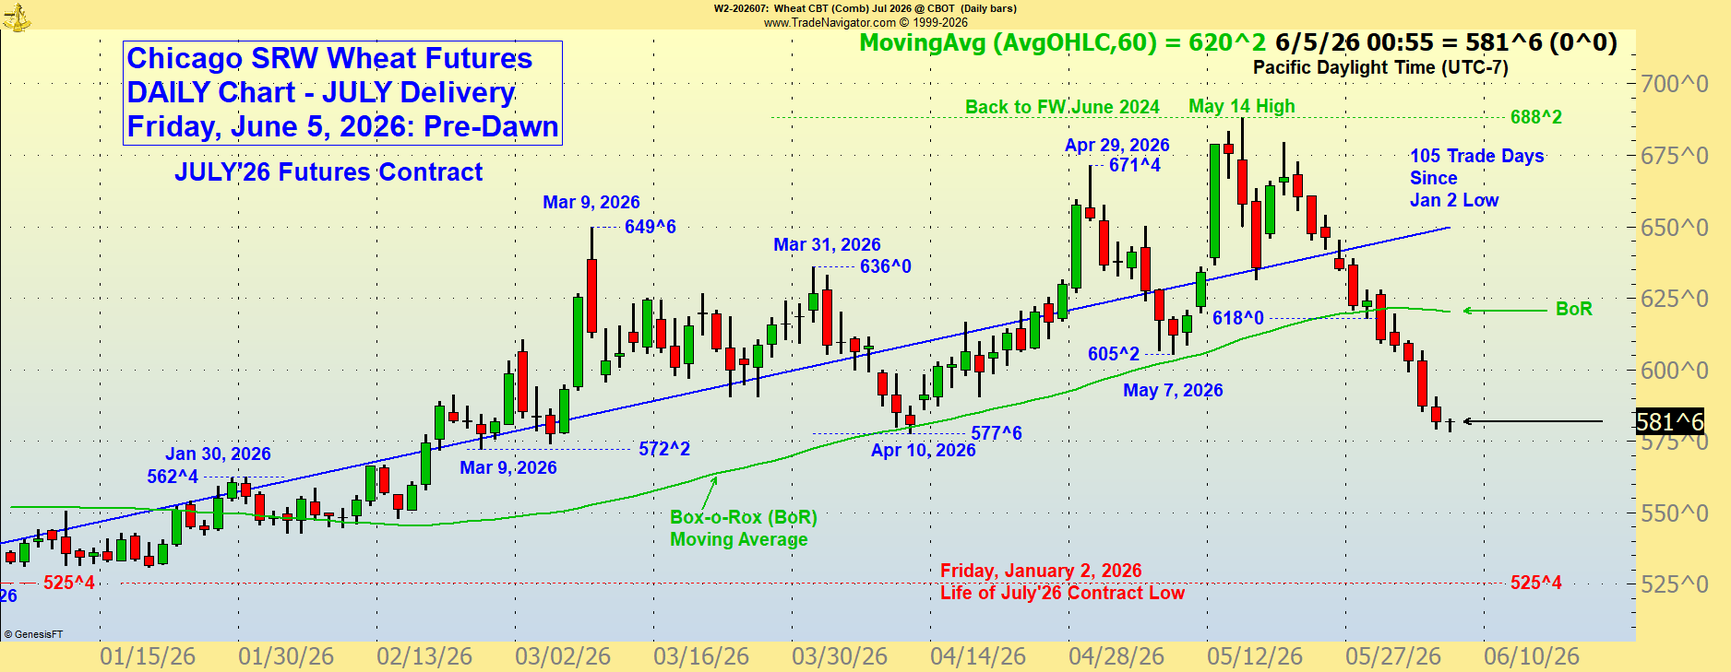
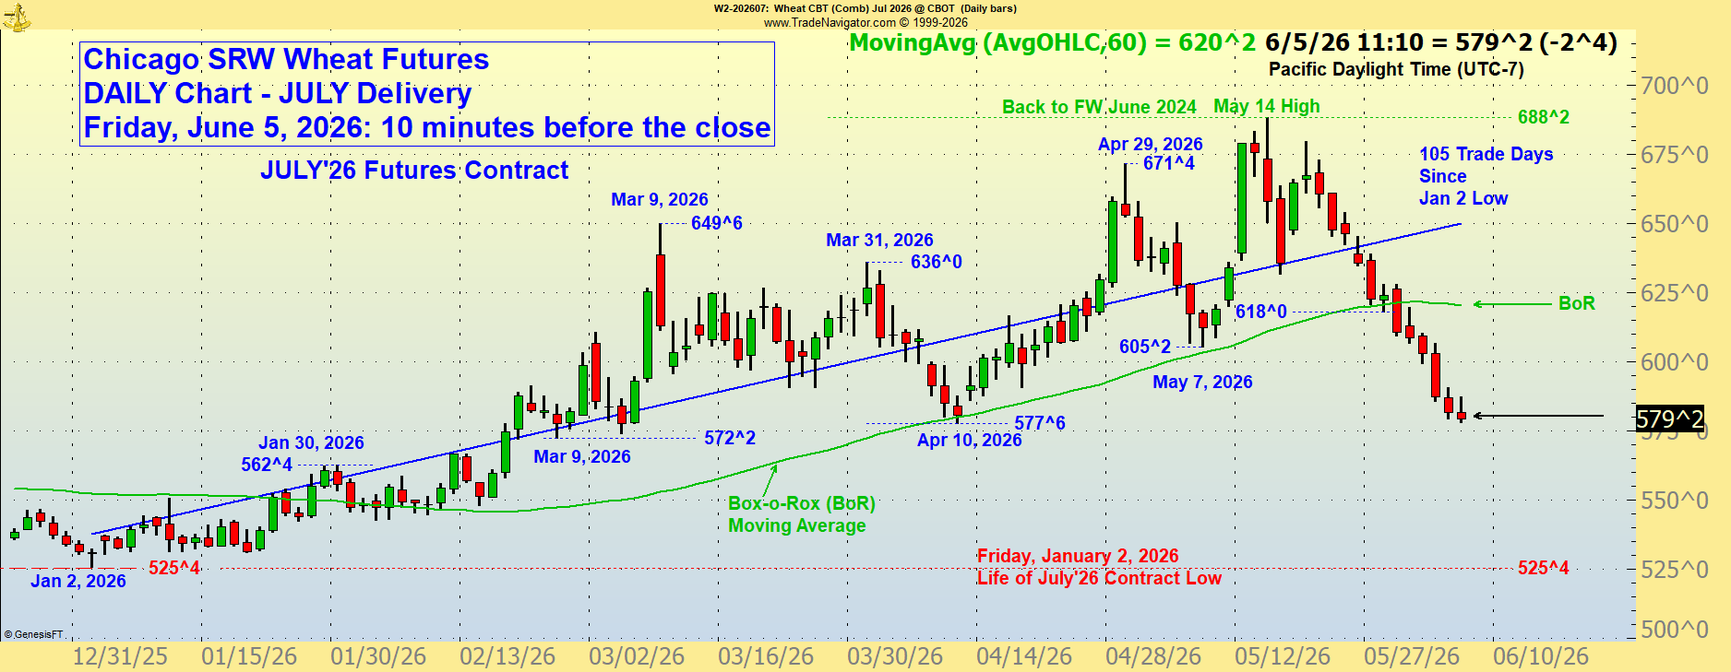
chartupdate

diff --git a/devlogs/reports/report-2026-06-05.html b/devlogs/reports/report-2026-06-05.html
@@ -1,0 +1,163 @@
+<!DOCTYPE html>
+<html lang="en">
+<head>
+<meta charset="UTF-8">
+<meta name="viewport" content="width=device-width, initial-scale=1.0">
+<title>MarketBullets Daily Report 2026-06-05</title>
+<style>
+  :root {
+    --gold:  #D4A051;
+    --amber: #D4A574;
+    --blue:  #B8C5D6;
+    --bg:    #1a1a1a;
+    --line:  #2e2e2e;
+    --text:  #F5F5F0;
+    --dim:   #888;
+  }
+  * { box-sizing: border-box; margin: 0; padding: 0; }
+  body { font-family: Georgia, 'Times New Roman', serif; background: var(--bg);
+         color: var(--text); padding: 2rem 2.5rem; line-height: 1.6; }
+  header { border-bottom: 2px solid var(--gold); padding-bottom: 1rem; margin-bottom: 2rem; }
+  header h1 { color: var(--gold); font-size: 1.4rem; letter-spacing: 0.04em; }
+  header .meta { color: var(--blue); font-size: 0.85rem; margin-top: 0.25rem; }
+  h2 { color: var(--gold); font-size: 0.85rem; letter-spacing: 0.08em;
+       text-transform: uppercase; border-left: 3px solid var(--gold);
+       padding-left: 0.65rem; margin: 2rem 0 0.75rem; }
+  table { width: 100%; border-collapse: collapse; font-size: 0.875rem; }
+  th { text-align: left; color: var(--blue); padding: 0.4rem 0.6rem;
+       border-bottom: 1px solid var(--gold); font-family: 'Trebuchet MS', sans-serif;
+       font-size: 0.72rem; text-transform: uppercase; letter-spacing: 0.06em; }
+  td { padding: 0.35rem 0.6rem; border-bottom: 1px solid var(--line); vertical-align: middle; }
+  tr:hover td { background: #252525; }
+  a { color: var(--amber); text-decoration: none; }
+  a:hover { color: var(--gold); text-decoration: underline; }
+  .ts   { color: var(--dim); font-size: 0.8rem; font-family: monospace; white-space: nowrap; }
+  .ext  { color: var(--blue); font-size: 0.8rem; font-family: monospace; }
+  .empty { color: var(--dim); font-style: italic; padding: 0.6rem 0; }
+  footer { margin-top: 3rem; color: var(--dim); font-size: 0.75rem;
+           border-top: 1px solid var(--line); padding-top: 0.75rem;
+           font-family: 'Trebuchet MS', sans-serif; }
+</style>
+</head>
+<body>
+<header>
+  <h1>MarketBullets &mdash; Daily Activity Report</h1>
+  <div class="meta">2026-06-05 &nbsp;&bull;&nbsp; Generated 05:00</div>
+</header>
+<h2>Files Modified &mdash; Last 24 Hours</h2>
+<table>
+  <tr><th>Path</th><th>Type</th><th>Time</th><th>Size</th></tr>
+  <tr><td><a href='file:///C:/Users/hofer/OneDrive/Documents/GitHub/WEBSITECHARTS/tools/auto_commit.log'>tools/auto_commit.log</a></td><td class='ext'>.log</td><td class='ts'>01:12</td><td class='ts'>55.3 KB</td></tr>
+  <tr><td><a href='file:///C:/Users/hofer/OneDrive/Documents/GitHub/WEBSITECHARTS/tools/delay_updater.log'>tools/delay_updater.log</a></td><td class='ext'>.log</td><td class='ts'>01:12</td><td class='ts'>33.7 KB</td></tr>
+  <tr><td><a href='file:///C:/Users/hofer/OneDrive/Documents/GitHub/WEBSITECHARTS/charts/WHEAT_HRS_M.png'>charts/WHEAT_HRS_M.png</a></td><td class='ext'>.png</td><td class='ts'>01:12</td><td class='ts'>64.7 KB</td></tr>
+  <tr><td><a href='file:///C:/Users/hofer/OneDrive/Documents/GitHub/WEBSITECHARTS/charts/WHEAT_HRS_D.png'>charts/WHEAT_HRS_D.png</a></td><td class='ext'>.png</td><td class='ts'>01:11</td><td class='ts'>84.4 KB</td></tr>
+  <tr><td><a href='file:///C:/Users/hofer/OneDrive/Documents/GitHub/WEBSITECHARTS/charts/WHEAT_FWH_W.png'>charts/WHEAT_FWH_W.png</a></td><td class='ext'>.png</td><td class='ts'>01:09</td><td class='ts'>146.1 KB</td></tr>
+  <tr><td><a href='file:///C:/Users/hofer/OneDrive/Documents/GitHub/WEBSITECHARTS/charts/WHEAT_FWH_M.png'>charts/WHEAT_FWH_M.png</a></td><td class='ext'>.png</td><td class='ts'>01:08</td><td class='ts'>96.3 KB</td></tr>
+  <tr><td><a href='file:///C:/Users/hofer/OneDrive/Documents/GitHub/WEBSITECHARTS/charts/WHEAT_FWH_D.png'>charts/WHEAT_FWH_D.png</a></td><td class='ext'>.png</td><td class='ts'>01:07</td><td class='ts'>132.2 KB</td></tr>
+  <tr><td><a href='file:///C:/Users/hofer/OneDrive/Documents/GitHub/WEBSITECHARTS/charts/WHEAT_HRS_W.png'>charts/WHEAT_HRS_W.png</a></td><td class='ext'>.png</td><td class='ts'>01:06</td><td class='ts'>109.3 KB</td></tr>
+  <tr><td><a href='file:///C:/Users/hofer/OneDrive/Documents/GitHub/WEBSITECHARTS/charts/WHEAT_SRW_D.png'>charts/WHEAT_SRW_D.png</a></td><td class='ext'>.png</td><td class='ts'>01:06</td><td class='ts'>103.4 KB</td></tr>
+  <tr><td><a href='file:///C:/Users/hofer/OneDrive/Documents/GitHub/WEBSITECHARTS/charts/WHEAT_SRW_BOR_D.png'>charts/WHEAT_SRW_BOR_D.png</a></td><td class='ext'>.png</td><td class='ts'>01:04</td><td class='ts'>142.4 KB</td></tr>
+  <tr><td><a href='file:///C:/Users/hofer/OneDrive/Documents/GitHub/WEBSITECHARTS/charts/WHEAT_SRW_A.png'>charts/WHEAT_SRW_A.png</a></td><td class='ext'>.png</td><td class='ts'>01:04</td><td class='ts'>116.6 KB</td></tr>
+  <tr><td><a href='file:///C:/Users/hofer/OneDrive/Documents/GitHub/WEBSITECHARTS/charts/WHEAT_SRW_W.png'>charts/WHEAT_SRW_W.png</a></td><td class='ext'>.png</td><td class='ts'>01:03</td><td class='ts'>122 KB</td></tr>
+  <tr><td><a href='file:///C:/Users/hofer/OneDrive/Documents/GitHub/WEBSITECHARTS/charts/WHEAT_SRW_M.png'>charts/WHEAT_SRW_M.png</a></td><td class='ext'>.png</td><td class='ts'>01:02</td><td class='ts'>89.3 KB</td></tr>
+  <tr><td><a href='file:///C:/Users/hofer/OneDrive/Documents/GitHub/WEBSITECHARTS/charts/WHEAT_SRW_Special_M.png'>charts/WHEAT_SRW_Special_M.png</a></td><td class='ext'>.png</td><td class='ts'>00:56</td><td class='ts'>79.7 KB</td></tr>
+  <tr><td><a href='file:///C:/Users/hofer/OneDrive/Documents/GitHub/WEBSITECHARTS/charts/WHEAT_HRW_W.png'>charts/WHEAT_HRW_W.png</a></td><td class='ext'>.png</td><td class='ts'>00:56</td><td class='ts'>112.5 KB</td></tr>
+  <tr><td><a href='file:///C:/Users/hofer/OneDrive/Documents/GitHub/WEBSITECHARTS/charts/WHEAT_HRW_M.png'>charts/WHEAT_HRW_M.png</a></td><td class='ext'>.png</td><td class='ts'>00:55</td><td class='ts'>85.3 KB</td></tr>
+  <tr><td><a href='file:///C:/Users/hofer/OneDrive/Documents/GitHub/WEBSITECHARTS/charts/WHEAT_HRW_D.png'>charts/WHEAT_HRW_D.png</a></td><td class='ext'>.png</td><td class='ts'>00:55</td><td class='ts'>89 KB</td></tr>
+  <tr><td><a href='file:///C:/Users/hofer/OneDrive/Documents/GitHub/WEBSITECHARTS/charts/10daydelay/.last_updated'>charts/10daydelay/.last_updated</a></td><td class='ext'>.last_updated</td><td class='ts'>00:54</td><td class='ts'>10 B</td></tr>
+  <tr><td><a href='file:///C:/Users/hofer/OneDrive/Documents/GitHub/WEBSITECHARTS/charts/10daydelay/WHEAT_SRW_WOLD.png'>charts/10daydelay/WHEAT_SRW_WOLD.png</a></td><td class='ext'>.png</td><td class='ts'>00:54</td><td class='ts'>119.6 KB</td></tr>
+  <tr><td><a href='file:///C:/Users/hofer/OneDrive/Documents/GitHub/WEBSITECHARTS/charts/10daydelay/WHEAT_SRW_Special_MOLD.png'>charts/10daydelay/WHEAT_SRW_Special_MOLD.png</a></td><td class='ext'>.png</td><td class='ts'>00:54</td><td class='ts'>78.9 KB</td></tr>
+  <tr><td><a href='file:///C:/Users/hofer/OneDrive/Documents/GitHub/WEBSITECHARTS/charts/10daydelay/WHEAT_SRW_MOLD.png'>charts/10daydelay/WHEAT_SRW_MOLD.png</a></td><td class='ext'>.png</td><td class='ts'>00:54</td><td class='ts'>86.1 KB</td></tr>
+  <tr><td><a href='file:///C:/Users/hofer/OneDrive/Documents/GitHub/WEBSITECHARTS/charts/10daydelay/WHEAT_SRW_DOLD.png'>charts/10daydelay/WHEAT_SRW_DOLD.png</a></td><td class='ext'>.png</td><td class='ts'>00:54</td><td class='ts'>99 KB</td></tr>
+  <tr><td><a href='file:///C:/Users/hofer/OneDrive/Documents/GitHub/WEBSITECHARTS/charts/10daydelay/WHEAT_SRW_BOR_DOLD.png'>charts/10daydelay/WHEAT_SRW_BOR_DOLD.png</a></td><td class='ext'>.png</td><td class='ts'>00:54</td><td class='ts'>138.5 KB</td></tr>
+  <tr><td><a href='file:///C:/Users/hofer/OneDrive/Documents/GitHub/WEBSITECHARTS/charts/10daydelay/WHEAT_SRW_AOLD.png'>charts/10daydelay/WHEAT_SRW_AOLD.png</a></td><td class='ext'>.png</td><td class='ts'>00:54</td><td class='ts'>115.1 KB</td></tr>
+  <tr><td><a href='file:///C:/Users/hofer/OneDrive/Documents/GitHub/WEBSITECHARTS/charts/10daydelay/WHEAT_SRW_30MinOLD.png'>charts/10daydelay/WHEAT_SRW_30MinOLD.png</a></td><td class='ext'>.png</td><td class='ts'>00:54</td><td class='ts'>87.6 KB</td></tr>
+  <tr><td><a href='file:///C:/Users/hofer/OneDrive/Documents/GitHub/WEBSITECHARTS/charts/10daydelay/WHEAT_HRW_WOLD.png'>charts/10daydelay/WHEAT_HRW_WOLD.png</a></td><td class='ext'>.png</td><td class='ts'>00:54</td><td class='ts'>113.1 KB</td></tr>
+  <tr><td><a href='file:///C:/Users/hofer/OneDrive/Documents/GitHub/WEBSITECHARTS/charts/10daydelay/WHEAT_HRW_MOLD.png'>charts/10daydelay/WHEAT_HRW_MOLD.png</a></td><td class='ext'>.png</td><td class='ts'>00:54</td><td class='ts'>85.5 KB</td></tr>
+  <tr><td><a href='file:///C:/Users/hofer/OneDrive/Documents/GitHub/WEBSITECHARTS/charts/10daydelay/WHEAT_HRW_DOLD.png'>charts/10daydelay/WHEAT_HRW_DOLD.png</a></td><td class='ext'>.png</td><td class='ts'>00:54</td><td class='ts'>87.7 KB</td></tr>
+  <tr><td><a href='file:///C:/Users/hofer/OneDrive/Documents/GitHub/WEBSITECHARTS/charts/10daydelay/WHEAT_HRS_WOLD.png'>charts/10daydelay/WHEAT_HRS_WOLD.png</a></td><td class='ext'>.png</td><td class='ts'>00:54</td><td class='ts'>111.9 KB</td></tr>
+  <tr><td><a href='file:///C:/Users/hofer/OneDrive/Documents/GitHub/WEBSITECHARTS/charts/10daydelay/WHEAT_HRS_MOLD.png'>charts/10daydelay/WHEAT_HRS_MOLD.png</a></td><td class='ext'>.png</td><td class='ts'>00:54</td><td class='ts'>69.3 KB</td></tr>
+  <tr><td><a href='file:///C:/Users/hofer/OneDrive/Documents/GitHub/WEBSITECHARTS/charts/10daydelay/WHEAT_HRS_DOLD.png'>charts/10daydelay/WHEAT_HRS_DOLD.png</a></td><td class='ext'>.png</td><td class='ts'>00:54</td><td class='ts'>87.1 KB</td></tr>
+  <tr><td><a href='file:///C:/Users/hofer/OneDrive/Documents/GitHub/WEBSITECHARTS/charts/10daydelay/WHEAT_FWH_WOLD.png'>charts/10daydelay/WHEAT_FWH_WOLD.png</a></td><td class='ext'>.png</td><td class='ts'>00:54</td><td class='ts'>148.2 KB</td></tr>
+  <tr><td><a href='file:///C:/Users/hofer/OneDrive/Documents/GitHub/WEBSITECHARTS/charts/10daydelay/WHEAT_FWH_MOLD.png'>charts/10daydelay/WHEAT_FWH_MOLD.png</a></td><td class='ext'>.png</td><td class='ts'>00:54</td><td class='ts'>97.7 KB</td></tr>
+  <tr><td><a href='file:///C:/Users/hofer/OneDrive/Documents/GitHub/WEBSITECHARTS/charts/10daydelay/WHEAT_FWH_DOLD.png'>charts/10daydelay/WHEAT_FWH_DOLD.png</a></td><td class='ext'>.png</td><td class='ts'>00:54</td><td class='ts'>130.6 KB</td></tr>
+  <tr><td><a href='file:///C:/Users/hofer/OneDrive/Documents/GitHub/WEBSITECHARTS/charts/10daydelay/SPDINTER_SRW_HRW_MOLD.png'>charts/10daydelay/SPDINTER_SRW_HRW_MOLD.png</a></td><td class='ext'>.png</td><td class='ts'>00:54</td><td class='ts'>74.9 KB</td></tr>
+  <tr><td><a href='file:///C:/Users/hofer/OneDrive/Documents/GitHub/WEBSITECHARTS/charts/10daydelay/SPDINTER_SRW_HRS_MOLD.png'>charts/10daydelay/SPDINTER_SRW_HRS_MOLD.png</a></td><td class='ext'>.png</td><td class='ts'>00:54</td><td class='ts'>82.7 KB</td></tr>
+  <tr><td><a href='file:///C:/Users/hofer/OneDrive/Documents/GitHub/WEBSITECHARTS/charts/10daydelay/SPDINTER_HRW_FWH_WOLD.png'>charts/10daydelay/SPDINTER_HRW_FWH_WOLD.png</a></td><td class='ext'>.png</td><td class='ts'>00:54</td><td class='ts'>95.5 KB</td></tr>
+  <tr><td><a href='file:///C:/Users/hofer/OneDrive/Documents/GitHub/WEBSITECHARTS/charts/10daydelay/SPDINTER_HRW_FWH_MOLD.png'>charts/10daydelay/SPDINTER_HRW_FWH_MOLD.png</a></td><td class='ext'>.png</td><td class='ts'>00:54</td><td class='ts'>102.5 KB</td></tr>
+  <tr><td><a href='file:///C:/Users/hofer/OneDrive/Documents/GitHub/WEBSITECHARTS/charts/10daydelay/SPDINTER_HRS_HRW_MOLD.png'>charts/10daydelay/SPDINTER_HRS_HRW_MOLD.png</a></td><td class='ext'>.png</td><td class='ts'>00:54</td><td class='ts'>76.9 KB</td></tr>
+  <tr><td><a href='file:///C:/Users/hofer/OneDrive/Documents/GitHub/WEBSITECHARTS/charts/10daydelay/SPD_SRW_Z_H2OLD.png'>charts/10daydelay/SPD_SRW_Z_H2OLD.png</a></td><td class='ext'>.png</td><td class='ts'>00:54</td><td class='ts'>65.5 KB</td></tr>
+  <tr><td><a href='file:///C:/Users/hofer/OneDrive/Documents/GitHub/WEBSITECHARTS/charts/10daydelay/SPD_SRW_U_ZOLD.png'>charts/10daydelay/SPD_SRW_U_ZOLD.png</a></td><td class='ext'>.png</td><td class='ts'>00:54</td><td class='ts'>63 KB</td></tr>
+  <tr><td><a href='file:///C:/Users/hofer/OneDrive/Documents/GitHub/WEBSITECHARTS/charts/10daydelay/SPD_SRW_N_UOLD.png'>charts/10daydelay/SPD_SRW_N_UOLD.png</a></td><td class='ext'>.png</td><td class='ts'>00:54</td><td class='ts'>74.5 KB</td></tr>
+  <tr><td><a href='file:///C:/Users/hofer/OneDrive/Documents/GitHub/WEBSITECHARTS/charts/10daydelay/SPD_SRW_K_NOLD.png'>charts/10daydelay/SPD_SRW_K_NOLD.png</a></td><td class='ext'>.png</td><td class='ts'>00:54</td><td class='ts'>75.1 KB</td></tr>
+  <tr><td><a href='file:///C:/Users/hofer/OneDrive/Documents/GitHub/WEBSITECHARTS/charts/10daydelay/SPD_SRW_H_KOLD.png'>charts/10daydelay/SPD_SRW_H_KOLD.png</a></td><td class='ext'>.png</td><td class='ts'>00:54</td><td class='ts'>61.6 KB</td></tr>
+  <tr><td><a href='file:///C:/Users/hofer/OneDrive/Documents/GitHub/WEBSITECHARTS/charts/10daydelay/SPD_HRW_Z_H2OLD.png'>charts/10daydelay/SPD_HRW_Z_H2OLD.png</a></td><td class='ext'>.png</td><td class='ts'>00:54</td><td class='ts'>71.1 KB</td></tr>
+  <tr><td><a href='file:///C:/Users/hofer/OneDrive/Documents/GitHub/WEBSITECHARTS/charts/10daydelay/SPD_HRW_U_ZOLD.png'>charts/10daydelay/SPD_HRW_U_ZOLD.png</a></td><td class='ext'>.png</td><td class='ts'>00:54</td><td class='ts'>61.3 KB</td></tr>
+  <tr><td><a href='file:///C:/Users/hofer/OneDrive/Documents/GitHub/WEBSITECHARTS/charts/10daydelay/SPD_HRW_N_UOLD.png'>charts/10daydelay/SPD_HRW_N_UOLD.png</a></td><td class='ext'>.png</td><td class='ts'>00:54</td><td class='ts'>68 KB</td></tr>
+  <tr><td><a href='file:///C:/Users/hofer/OneDrive/Documents/GitHub/WEBSITECHARTS/charts/10daydelay/SPD_HRW_K_NOLD.png'>charts/10daydelay/SPD_HRW_K_NOLD.png</a></td><td class='ext'>.png</td><td class='ts'>00:54</td><td class='ts'>76.3 KB</td></tr>
+  <tr><td><a href='file:///C:/Users/hofer/OneDrive/Documents/GitHub/WEBSITECHARTS/charts/10daydelay/SPD_HRW_H_KOLD.png'>charts/10daydelay/SPD_HRW_H_KOLD.png</a></td><td class='ext'>.png</td><td class='ts'>00:54</td><td class='ts'>61.6 KB</td></tr>
+  <tr><td><a href='file:///C:/Users/hofer/OneDrive/Documents/GitHub/WEBSITECHARTS/charts/10daydelay/SPD_HRS_Z_H2OLD.png'>charts/10daydelay/SPD_HRS_Z_H2OLD.png</a></td><td class='ext'>.png</td><td class='ts'>00:54</td><td class='ts'>62.1 KB</td></tr>
+  <tr><td><a href='file:///C:/Users/hofer/OneDrive/Documents/GitHub/WEBSITECHARTS/charts/10daydelay/SPD_HRS_U_ZOLD.png'>charts/10daydelay/SPD_HRS_U_ZOLD.png</a></td><td class='ext'>.png</td><td class='ts'>00:54</td><td class='ts'>55.1 KB</td></tr>
+  <tr><td><a href='file:///C:/Users/hofer/OneDrive/Documents/GitHub/WEBSITECHARTS/charts/10daydelay/SPD_HRS_N_UOLD.png'>charts/10daydelay/SPD_HRS_N_UOLD.png</a></td><td class='ext'>.png</td><td class='ts'>00:54</td><td class='ts'>70.7 KB</td></tr>
+  <tr><td><a href='file:///C:/Users/hofer/OneDrive/Documents/GitHub/WEBSITECHARTS/charts/10daydelay/SPD_HRS_K_NOLD.png'>charts/10daydelay/SPD_HRS_K_NOLD.png</a></td><td class='ext'>.png</td><td class='ts'>00:54</td><td class='ts'>71.3 KB</td></tr>
+  <tr><td><a href='file:///C:/Users/hofer/OneDrive/Documents/GitHub/WEBSITECHARTS/charts/10daydelay/SPD_HRS_H_KOLD.png'>charts/10daydelay/SPD_HRS_H_KOLD.png</a></td><td class='ext'>.png</td><td class='ts'>00:54</td><td class='ts'>64.2 KB</td></tr>
+  <tr><td><a href='file:///C:/Users/hofer/OneDrive/Documents/GitHub/WEBSITECHARTS/charts/10daydelay/SPD_HRS_H2_K2OLD.png'>charts/10daydelay/SPD_HRS_H2_K2OLD.png</a></td><td class='ext'>.png</td><td class='ts'>00:54</td><td class='ts'>71.8 KB</td></tr>
+  <tr><td><a href='file:///C:/Users/hofer/OneDrive/Documents/GitHub/WEBSITECHARTS/charts/10daydelay/SPD_FWH_Z_H2OLD.png'>charts/10daydelay/SPD_FWH_Z_H2OLD.png</a></td><td class='ext'>.png</td><td class='ts'>00:54</td><td class='ts'>63.7 KB</td></tr>
+  <tr><td><a href='file:///C:/Users/hofer/OneDrive/Documents/GitHub/WEBSITECHARTS/charts/10daydelay/SPD_FWH_U_ZOLD.png'>charts/10daydelay/SPD_FWH_U_ZOLD.png</a></td><td class='ext'>.png</td><td class='ts'>00:54</td><td class='ts'>75.6 KB</td></tr>
+  <tr><td><a href='file:///C:/Users/hofer/OneDrive/Documents/GitHub/WEBSITECHARTS/charts/10daydelay/SPD_FWH_K_UOLD.png'>charts/10daydelay/SPD_FWH_K_UOLD.png</a></td><td class='ext'>.png</td><td class='ts'>00:54</td><td class='ts'>87 KB</td></tr>
+  <tr><td><a href='file:///C:/Users/hofer/OneDrive/Documents/GitHub/WEBSITECHARTS/charts/10daydelay/SPD_FWH_K2_U2OLD.png'>charts/10daydelay/SPD_FWH_K2_U2OLD.png</a></td><td class='ext'>.png</td><td class='ts'>00:54</td><td class='ts'>66.2 KB</td></tr>
+  <tr><td><a href='file:///C:/Users/hofer/OneDrive/Documents/GitHub/WEBSITECHARTS/charts/10daydelay/SPD_FWH_H_KOLD.png'>charts/10daydelay/SPD_FWH_H_KOLD.png</a></td><td class='ext'>.png</td><td class='ts'>00:54</td><td class='ts'>71.8 KB</td></tr>
+  <tr><td><a href='file:///C:/Users/hofer/OneDrive/Documents/GitHub/WEBSITECHARTS/charts/10daydelay/RATIO_SRW_C_MOLD.png'>charts/10daydelay/RATIO_SRW_C_MOLD.png</a></td><td class='ext'>.png</td><td class='ts'>00:54</td><td class='ts'>86 KB</td></tr>
+  <tr><td><a href='file:///C:/Users/hofer/OneDrive/Documents/GitHub/WEBSITECHARTS/charts/10daydelay/RATIO_S_C_WOLD.png'>charts/10daydelay/RATIO_S_C_WOLD.png</a></td><td class='ext'>.png</td><td class='ts'>00:54</td><td class='ts'>72.8 KB</td></tr>
+  <tr><td><a href='file:///C:/Users/hofer/OneDrive/Documents/GitHub/WEBSITECHARTS/charts/10daydelay/NRG_NG_MOLD.png'>charts/10daydelay/NRG_NG_MOLD.png</a></td><td class='ext'>.png</td><td class='ts'>00:54</td><td class='ts'>67.1 KB</td></tr>
+  <tr><td><a href='file:///C:/Users/hofer/OneDrive/Documents/GitHub/WEBSITECHARTS/charts/10daydelay/NRG_HO_DOLD.png'>charts/10daydelay/NRG_HO_DOLD.png</a></td><td class='ext'>.png</td><td class='ts'>00:54</td><td class='ts'>82.7 KB</td></tr>
+  <tr><td><a href='file:///C:/Users/hofer/OneDrive/Documents/GitHub/WEBSITECHARTS/charts/10daydelay/NRG_CL_WOLD.png'>charts/10daydelay/NRG_CL_WOLD.png</a></td><td class='ext'>.png</td><td class='ts'>00:54</td><td class='ts'>97.4 KB</td></tr>
+  <tr><td><a href='file:///C:/Users/hofer/OneDrive/Documents/GitHub/WEBSITECHARTS/charts/10daydelay/NRG_CL_MOLD.png'>charts/10daydelay/NRG_CL_MOLD.png</a></td><td class='ext'>.png</td><td class='ts'>00:54</td><td class='ts'>85.5 KB</td></tr>
+  <tr><td><a href='file:///C:/Users/hofer/OneDrive/Documents/GitHub/WEBSITECHARTS/charts/10daydelay/NRG_CL_DOLD.png'>charts/10daydelay/NRG_CL_DOLD.png</a></td><td class='ext'>.png</td><td class='ts'>00:54</td><td class='ts'>60.4 KB</td></tr>
+  <tr><td><a href='file:///C:/Users/hofer/OneDrive/Documents/GitHub/WEBSITECHARTS/charts/10daydelay/MISC_CC_MOLD.png'>charts/10daydelay/MISC_CC_MOLD.png</a></td><td class='ext'>.png</td><td class='ts'>00:54</td><td class='ts'>66.5 KB</td></tr>
+  <tr><td><a href='file:///C:/Users/hofer/OneDrive/Documents/GitHub/WEBSITECHARTS/charts/10daydelay/MISC_CAMSHAFT_PATTERN_SRW_DOLD.png'>charts/10daydelay/MISC_CAMSHAFT_PATTERN_SRW_DOLD.png</a></td><td class='ext'>.png</td><td class='ts'>00:54</td><td class='ts'>60.9 KB</td></tr>
+  <tr><td><a href='file:///C:/Users/hofer/OneDrive/Documents/GitHub/WEBSITECHARTS/charts/10daydelay/METL_SI_DOLD.png'>charts/10daydelay/METL_SI_DOLD.png</a></td><td class='ext'>.png</td><td class='ts'>00:54</td><td class='ts'>88.3 KB</td></tr>
+  <tr><td><a href='file:///C:/Users/hofer/OneDrive/Documents/GitHub/WEBSITECHARTS/charts/10daydelay/METL_HG_MOLD.png'>charts/10daydelay/METL_HG_MOLD.png</a></td><td class='ext'>.png</td><td class='ts'>00:54</td><td class='ts'>88 KB</td></tr>
+  <tr><td><a href='file:///C:/Users/hofer/OneDrive/Documents/GitHub/WEBSITECHARTS/charts/10daydelay/METL_GC_MOLD.png'>charts/10daydelay/METL_GC_MOLD.png</a></td><td class='ext'>.png</td><td class='ts'>00:54</td><td class='ts'>78.5 KB</td></tr>
+  <tr><td><a href='file:///C:/Users/hofer/OneDrive/Documents/GitHub/WEBSITECHARTS/charts/10daydelay/METL_GC_DOLD.png'>charts/10daydelay/METL_GC_DOLD.png</a></td><td class='ext'>.png</td><td class='ts'>00:54</td><td class='ts'>81.7 KB</td></tr>
+  <tr><td><a href='file:///C:/Users/hofer/OneDrive/Documents/GitHub/WEBSITECHARTS/charts/10daydelay/IDX_GSCI_WOLD.png'>charts/10daydelay/IDX_GSCI_WOLD.png</a></td><td class='ext'>.png</td><td class='ts'>00:54</td><td class='ts'>117.3 KB</td></tr>
+  <tr><td><a href='file:///C:/Users/hofer/OneDrive/Documents/GitHub/WEBSITECHARTS/charts/10daydelay/IDX_ES_MOLD.png'>charts/10daydelay/IDX_ES_MOLD.png</a></td><td class='ext'>.png</td><td class='ts'>00:54</td><td class='ts'>80.4 KB</td></tr>
+  <tr><td><a href='file:///C:/Users/hofer/OneDrive/Documents/GitHub/WEBSITECHARTS/charts/10daydelay/IDX_ES_DOLD.png'>charts/10daydelay/IDX_ES_DOLD.png</a></td><td class='ext'>.png</td><td class='ts'>00:54</td><td class='ts'>96.8 KB</td></tr>
+  <tr><td><a href='file:///C:/Users/hofer/OneDrive/Documents/GitHub/WEBSITECHARTS/charts/10daydelay/IDX_DXY_WOLD.png'>charts/10daydelay/IDX_DXY_WOLD.png</a></td><td class='ext'>.png</td><td class='ts'>00:54</td><td class='ts'>132.3 KB</td></tr>
+  <tr><td><a href='file:///C:/Users/hofer/OneDrive/Documents/GitHub/WEBSITECHARTS/charts/10daydelay/IDX_DXY_MOLD.png'>charts/10daydelay/IDX_DXY_MOLD.png</a></td><td class='ext'>.png</td><td class='ts'>00:54</td><td class='ts'>74.1 KB</td></tr>
+  <tr><td><a href='file:///C:/Users/hofer/OneDrive/Documents/GitHub/WEBSITECHARTS/charts/10daydelay/IDX_BDI_WOLD.png'>charts/10daydelay/IDX_BDI_WOLD.png</a></td><td class='ext'>.png</td><td class='ts'>00:54</td><td class='ts'>90.7 KB</td></tr>
+  <tr><td><a href='file:///C:/Users/hofer/OneDrive/Documents/GitHub/WEBSITECHARTS/charts/10daydelay/GRAIN_S_WOLD.png'>charts/10daydelay/GRAIN_S_WOLD.png</a></td><td class='ext'>.png</td><td class='ts'>00:54</td><td class='ts'>77.2 KB</td></tr>
+  <tr><td><a href='file:///C:/Users/hofer/OneDrive/Documents/GitHub/WEBSITECHARTS/charts/10daydelay/GRAIN_S_DOLD.png'>charts/10daydelay/GRAIN_S_DOLD.png</a></td><td class='ext'>.png</td><td class='ts'>00:54</td><td class='ts'>88.8 KB</td></tr>
+  <tr><td><a href='file:///C:/Users/hofer/OneDrive/Documents/GitHub/WEBSITECHARTS/charts/10daydelay/GRAIN_C_WOLD.png'>charts/10daydelay/GRAIN_C_WOLD.png</a></td><td class='ext'>.png</td><td class='ts'>00:54</td><td class='ts'>80.3 KB</td></tr>
+  <tr><td><a href='file:///C:/Users/hofer/OneDrive/Documents/GitHub/WEBSITECHARTS/charts/10daydelay/GRAIN_C_DOLD.png'>charts/10daydelay/GRAIN_C_DOLD.png</a></td><td class='ext'>.png</td><td class='ts'>00:54</td><td class='ts'>98.3 KB</td></tr>
+  <tr><td><a href='file:///C:/Users/hofer/OneDrive/Documents/GitHub/WEBSITECHARTS/charts/10daydelay/FX_WD_MOLD.png'>charts/10daydelay/FX_WD_MOLD.png</a></td><td class='ext'>.png</td><td class='ts'>00:54</td><td class='ts'>79.5 KB</td></tr>
+  <tr><td><a href='file:///C:/Users/hofer/OneDrive/Documents/GitHub/WEBSITECHARTS/charts/10daydelay/FX_WD_DOLD.png'>charts/10daydelay/FX_WD_DOLD.png</a></td><td class='ext'>.png</td><td class='ts'>00:54</td><td class='ts'>81.3 KB</td></tr>
+  <tr><td><a href='file:///C:/Users/hofer/OneDrive/Documents/GitHub/WEBSITECHARTS/charts/10daydelay/FX_RUB_USD_MOLD.png'>charts/10daydelay/FX_RUB_USD_MOLD.png</a></td><td class='ext'>.png</td><td class='ts'>00:54</td><td class='ts'>95.3 KB</td></tr>
+  <tr><td><a href='file:///C:/Users/hofer/OneDrive/Documents/GitHub/WEBSITECHARTS/charts/10daydelay/FX_RUB_CNY_WOLD.png'>charts/10daydelay/FX_RUB_CNY_WOLD.png</a></td><td class='ext'>.png</td><td class='ts'>00:54</td><td class='ts'>101.3 KB</td></tr>
+  <tr><td><a href='file:///C:/Users/hofer/OneDrive/Documents/GitHub/WEBSITECHARTS/charts/10daydelay/FX_CNY_USD_MOLD.png'>charts/10daydelay/FX_CNY_USD_MOLD.png</a></td><td class='ext'>.png</td><td class='ts'>00:54</td><td class='ts'>101.3 KB</td></tr>
+  <tr><td><a href='file:///C:/Users/hofer/OneDrive/Documents/GitHub/WEBSITECHARTS/charts/10daydelay/FIN_WEAT_DOLD.png'>charts/10daydelay/FIN_WEAT_DOLD.png</a></td><td class='ext'>.png</td><td class='ts'>00:54</td><td class='ts'>95.2 KB</td></tr>
+  <tr><td><a href='file:///C:/Users/hofer/OneDrive/Documents/GitHub/WEBSITECHARTS/charts/10daydelay/FIN_UNP_DOLD.png'>charts/10daydelay/FIN_UNP_DOLD.png</a></td><td class='ext'>.png</td><td class='ts'>00:54</td><td class='ts'>63.1 KB</td></tr>
+  <tr><td><a href='file:///C:/Users/hofer/OneDrive/Documents/GitHub/WEBSITECHARTS/charts/10daydelay/FIN_HD_DOLD.png'>charts/10daydelay/FIN_HD_DOLD.png</a></td><td class='ext'>.png</td><td class='ts'>00:54</td><td class='ts'>90.7 KB</td></tr>
+  <tr><td><a href='file:///C:/Users/hofer/OneDrive/Documents/GitHub/WEBSITECHARTS/charts/10daydelay/FIN_DE_DOLD.png'>charts/10daydelay/FIN_DE_DOLD.png</a></td><td class='ext'>.png</td><td class='ts'>00:54</td><td class='ts'>90.2 KB</td></tr>
+  <tr><td><a href='file:///C:/Users/hofer/OneDrive/Documents/GitHub/WEBSITECHARTS/charts/10daydelay/FIN_CHSCP_DOLD.png'>charts/10daydelay/FIN_CHSCP_DOLD.png</a></td><td class='ext'>.png</td><td class='ts'>00:54</td><td class='ts'>78.9 KB</td></tr>
+  <tr><td><a href='file:///C:/Users/hofer/OneDrive/Documents/GitHub/WEBSITECHARTS/charts/10daydelay/FIN_CAT_DOLD.png'>charts/10daydelay/FIN_CAT_DOLD.png</a></td><td class='ext'>.png</td><td class='ts'>00:54</td><td class='ts'>57.3 KB</td></tr>
+  <tr><td><a href='file:///C:/Users/hofer/OneDrive/Documents/GitHub/WEBSITECHARTS/charts/10daydelay/FIN_BG_DOLD.png'>charts/10daydelay/FIN_BG_DOLD.png</a></td><td class='ext'>.png</td><td class='ts'>00:54</td><td class='ts'>50.5 KB</td></tr>
+  <tr><td><a href='file:///C:/Users/hofer/OneDrive/Documents/GitHub/WEBSITECHARTS/charts/10daydelay/FIN_ADM_DOLD.png'>charts/10daydelay/FIN_ADM_DOLD.png</a></td><td class='ext'>.png</td><td class='ts'>00:54</td><td class='ts'>56.7 KB</td></tr>
+  <tr><td><a href='file:///C:/Users/hofer/OneDrive/Documents/GitHub/WEBSITECHARTS/charts/10daydelay/COT_SRW_WOLD.png'>charts/10daydelay/COT_SRW_WOLD.png</a></td><td class='ext'>.png</td><td class='ts'>00:54</td><td class='ts'>89.5 KB</td></tr>
+  <tr><td><a href='file:///C:/Users/hofer/OneDrive/Documents/GitHub/WEBSITECHARTS/charts/10daydelay/COT_HRW_WOLD.png'>charts/10daydelay/COT_HRW_WOLD.png</a></td><td class='ext'>.png</td><td class='ts'>00:54</td><td class='ts'>69.6 KB</td></tr>
+  <tr><td><a href='file:///C:/Users/hofer/OneDrive/Documents/GitHub/WEBSITECHARTS/charts/10daydelay/BNDS_30YR_Yield_QOLD.png'>charts/10daydelay/BNDS_30YR_Yield_QOLD.png</a></td><td class='ext'>.png</td><td class='ts'>00:54</td><td class='ts'>74.6 KB</td></tr>
+  <tr><td><a href='file:///C:/Users/hofer/OneDrive/Documents/GitHub/WEBSITECHARTS/charts/10daydelay/BNDS_30YR_Price_QOLD.png'>charts/10daydelay/BNDS_30YR_Price_QOLD.png</a></td><td class='ext'>.png</td><td class='ts'>00:54</td><td class='ts'>98.6 KB</td></tr>
+  <tr><td><a href='file:///C:/Users/hofer/OneDrive/Documents/GitHub/WEBSITECHARTS/charts/10daydelay/BNDS_2YR_TNOTE_WOLD.png'>charts/10daydelay/BNDS_2YR_TNOTE_WOLD.png</a></td><td class='ext'>.png</td><td class='ts'>00:54</td><td class='ts'>101.4 KB</td></tr>
+  <tr><td><a href='file:///C:/Users/hofer/OneDrive/Documents/GitHub/WEBSITECHARTS/charts/10daydelay/BNDS_10YR_Price_QOLD.png'>charts/10daydelay/BNDS_10YR_Price_QOLD.png</a></td><td class='ext'>.png</td><td class='ts'>00:54</td><td class='ts'>107.8 KB</td></tr>
+  <tr><td><a href='file:///C:/Users/hofer/OneDrive/Documents/GitHub/WEBSITECHARTS/charts/WHEAT_SRW_30Min.png'>charts/WHEAT_SRW_30Min.png</a></td><td class='ext'>.png</td><td class='ts'>00:54</td><td class='ts'>90.2 KB</td></tr>
+  <tr><td><a href='file:///C:/Users/hofer/OneDrive/Documents/GitHub/WEBSITECHARTS/tools/eod_reports/eod_runner.log'>tools/eod_reports/eod_runner.log</a></td><td class='ext'>.log</td><td class='ts'>15:14</td><td class='ts'>126.8 KB</td></tr>
+  <tr><td><a href='file:///C:/Users/hofer/OneDrive/Documents/GitHub/WEBSITECHARTS/tools/eod_reports/eod_20260604.txt'>tools/eod_reports/eod_20260604.txt</a></td><td class='ext'>.txt</td><td class='ts'>15:14</td><td class='ts'>1.8 KB</td></tr>
+</table>
+<h2>Claude Session Records</h2>
+<table>
+  <tr><th>Transcript</th><th>Last Active</th></tr>
+  <tr><td colspan='2' class='empty'>No Claude sessions recorded in the last 24 hours.</td></tr>
+</table>
+<footer>MarketBullets LLC &nbsp;&bull;&nbsp; Auto-generated by daily_report.ps1</footer>
+</body>
+</html>
